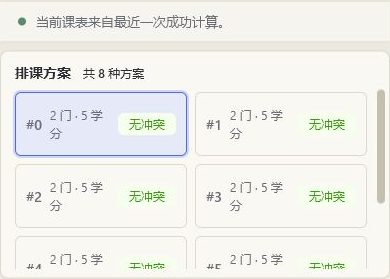
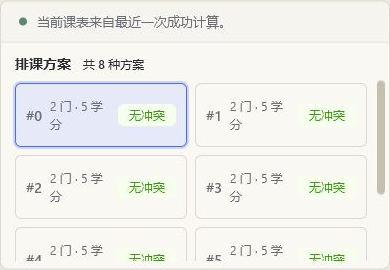
fix: merge status with arrangement panel

diff --git a/src/App.tsx b/src/App.tsx
@@ -350,21 +350,23 @@ function MainArea({ themeMode, onToggleTheme }: { themeMode: Theme; onToggleThem
             />
             <StatsBar stats={stats} onOpenSelectedCourses={() => openSelectedCourses('current')} />
           </div>
-          <CalculationStatus
-            phase={calculation.phase}
-            mode={calculation.draft.settings.calculationMode}
-            hasSnapshot={calculation.hasSnapshot}
-            actionLabel={calculation.actionLabel}
-            error={calculation.error}
-            onCalculate={calculation.startCalculation}
-          />
-          {arrangements.length > 1 && (
-            <ArrangementPanel
-              arrangements={arrangements}
-              selectedId={appliedArrangement?.id ?? null}
-              onSelect={handleArrangementChange}
+          <div className="panel-inner calculation-results no-print">
+            <CalculationStatus
+              phase={calculation.phase}
+              mode={calculation.draft.settings.calculationMode}
+              hasSnapshot={calculation.hasSnapshot}
+              actionLabel={calculation.actionLabel}
+              error={calculation.error}
+              onCalculate={calculation.startCalculation}
             />
-          )}
+            {arrangements.length > 1 && (
+              <ArrangementPanel
+                arrangements={arrangements}
+                selectedId={appliedArrangement?.id ?? null}
+                onSelect={handleArrangementChange}
+              />
+            )}
+          </div>
           <div className="course-search-tour-target" data-tour="course-search-area">
             <FilterBar
               filter={filter}

diff --git a/src/index.css b/src/index.css
@@ -984,8 +984,19 @@ html {
   --arrangement-list-gap: 8px;
   --arrangement-ring-space: 2px;
   --arrangement-scroll-space: 8px;
-  margin-top: 8px;
   padding: 10px 14px;
+}
+
+.calculation-results {
+  flex: 0 0 auto;
+}
+
+.calculation-results .calculation-status {
+  border: 0;
+}
+
+.calculation-results .arrangement-panel {
+  border-top: 1px solid var(--border);
 }
 
 .arrangement-panel__head {

diff --git a/src/components/CalculationStatus.test.ts b/src/components/CalculationStatus.test.ts
@@ -1,7 +1,11 @@
 import { createElement } from 'react';
+import { readFileSync } from 'node:fs';
 import { renderToStaticMarkup } from 'react-dom/server';
 import { describe, expect, it, vi } from 'vitest';
 import CalculationStatus from './CalculationStatus';
+
+const appSource = readFileSync(new URL('../App.tsx', import.meta.url), 'utf8');
+const arrangementPanelSource = readFileSync(new URL('./ArrangementPanel.tsx', import.meta.url), 'utf8');
 
 function renderStatus(
   phase: 'dirty' | 'ready',
@@ -18,6 +22,13 @@ function renderStatus(
 }
 
 describe('CalculationStatus', () => {
+  it('shares one panel with the arrangement list', () => {
+    expect(appSource).toMatch(
+      /className="panel-inner calculation-results no-print"[\s\S]*<CalculationStatus[\s\S]*<ArrangementPanel/,
+    );
+    expect(arrangementPanelSource).not.toContain('panel-inner arrangement-panel');
+  });
+
   it('shows only the changed-input message for a dirty timetable', () => {
     const html = renderStatus('dirty', true);
 

diff --git a/src/components/ArrangementPanel.tsx b/src/components/ArrangementPanel.tsx
@@ -9,7 +9,7 @@ interface Props {
 
 export default function ArrangementPanel({ arrangements, selectedId, onSelect }: Props) {
   return (
-    <div className="panel-inner arrangement-panel no-print">
+    <div className="arrangement-panel">
       <div className="arrangement-panel__head">
         <span className="arrangement-panel__title">排课方案</span>
         <span className="arrangement-panel__sub">

diff --git a/docs/superpowers/specs/2026-07-13-search-status-onboarding-polish-design.md b/docs/superpowers/specs/2026-07-13-search-status-onboarding-polish-design.md
@@ -9,6 +9,7 @@
 ### 排课状态
 
 - 状态栏只渲染一个主要文本节点，不再同时显示粗体标题和补充说明。
+- 状态栏与排课方案列表合并在同一张卡片中，并用分隔线区分；搜索筛选仍保持独立卡片。
 - 课程或偏好变化时显示：`课程或偏好已变更。`
 - 最近一次计算成功时显示：`当前课表来自最近一次成功计算。`
 - 未选择课程、计算中和错误状态仍保留各自必要的一句提示及原有操作按钮。